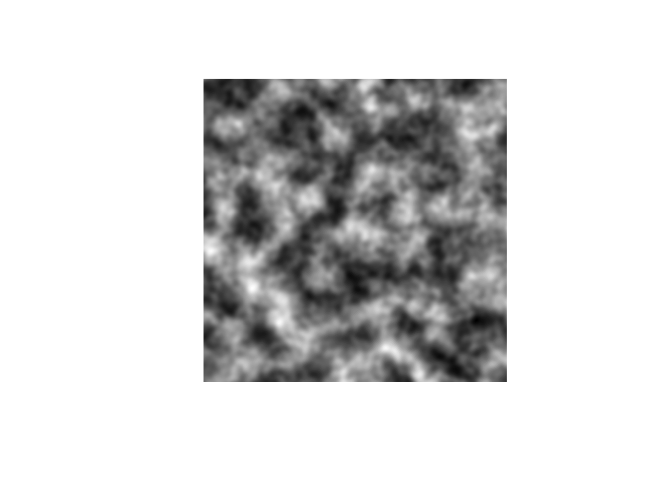
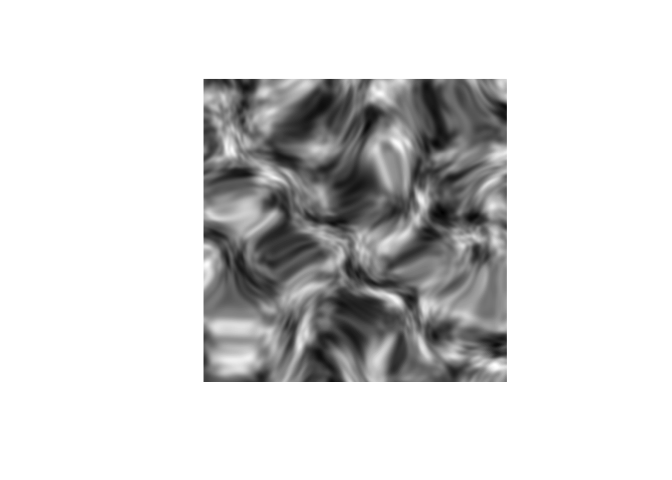
update readme examples

Changed region(s): [[0.2812, 0.1562, 0.7812, 0.8125]]

diff --git a/README.md b/README.md
@@ -38,8 +38,9 @@ devtools::install_github('thomasp85/ambient')
 Examples
 --------
 
-Following is a couple of examples of the noise patterns possible with
-`ambient`:
+ambient provides a direct interface to the FastNoise functions by
+requesting a matrix/array of noise values, with a range of settings for
+pertubation and fractals:
 
 ``` r
 library(ambient)
@@ -47,33 +48,39 @@ plot_raster <- function(mat) {
   mat <- (mat - min(mat)) / diff(range(mat))
   plot(as.raster(mat))
 }
-
-# Simplex
-plot_raster(noise_simplex(c(500, 500)))
+simplex <- noise_simplex(c(500, 500), pertubation = 'normal', 
+                         pertubation_amplitude = 40)
+plot_raster(simplex)
 ```
 
 ![](man/figures/README-unnamed-chunk-3-1.png)
 
-``` r
-
-# Simplex - No fractality
-plot_raster(noise_simplex(c(500, 500), fractal = 'none'))
-```
-
-![](man/figures/README-unnamed-chunk-3-2.png)
+much more powerful, however, is the tidy interface that allows full
+control of how the values should be calculated and combined:
 
 ``` r
+library(dplyr)
+#> 
+#> Attaching package: 'dplyr'
+#> The following objects are masked from 'package:stats':
+#> 
+#>     filter, lag
+#> The following objects are masked from 'package:base':
+#> 
+#>     intersect, setdiff, setequal, union
 
-# Worley (cellular)
-plot_raster(noise_worley(c(500, 500)))
+long_grid(x = seq(0, 10, length.out = 1000), 
+          y = seq(0, 10, length.out = 1000)) %>% 
+  mutate(
+    x1 = x + gen_simplex(x, y) / 2, 
+    y1 = y + gen_simplex(x, y) / 2,
+    worley = gen_worley(x, y, value = 'distance', seed = 5),
+    worley_frac = fracture(gen_worley, ridged, octaves = 8, x = x, y = y, 
+                           value = 'distance', seed = 5),
+    full = blend(normalise(worley), normalise(worley_frac), gen_spheres(x1, y1))
+  ) %>% 
+  as.raster(value = full) %>% 
+  plot()
 ```
 
-![](man/figures/README-unnamed-chunk-3-3.png)
-
-``` r
-
-# Worley - with pertubation
-plot_raster(noise_worley(c(500, 500), pertubation = 'normal', pertubation_amplitude = 40))
-```
-
-![](man/figures/README-unnamed-chunk-3-4.png)
+![](man/figures/README-unnamed-chunk-4-1.png)
